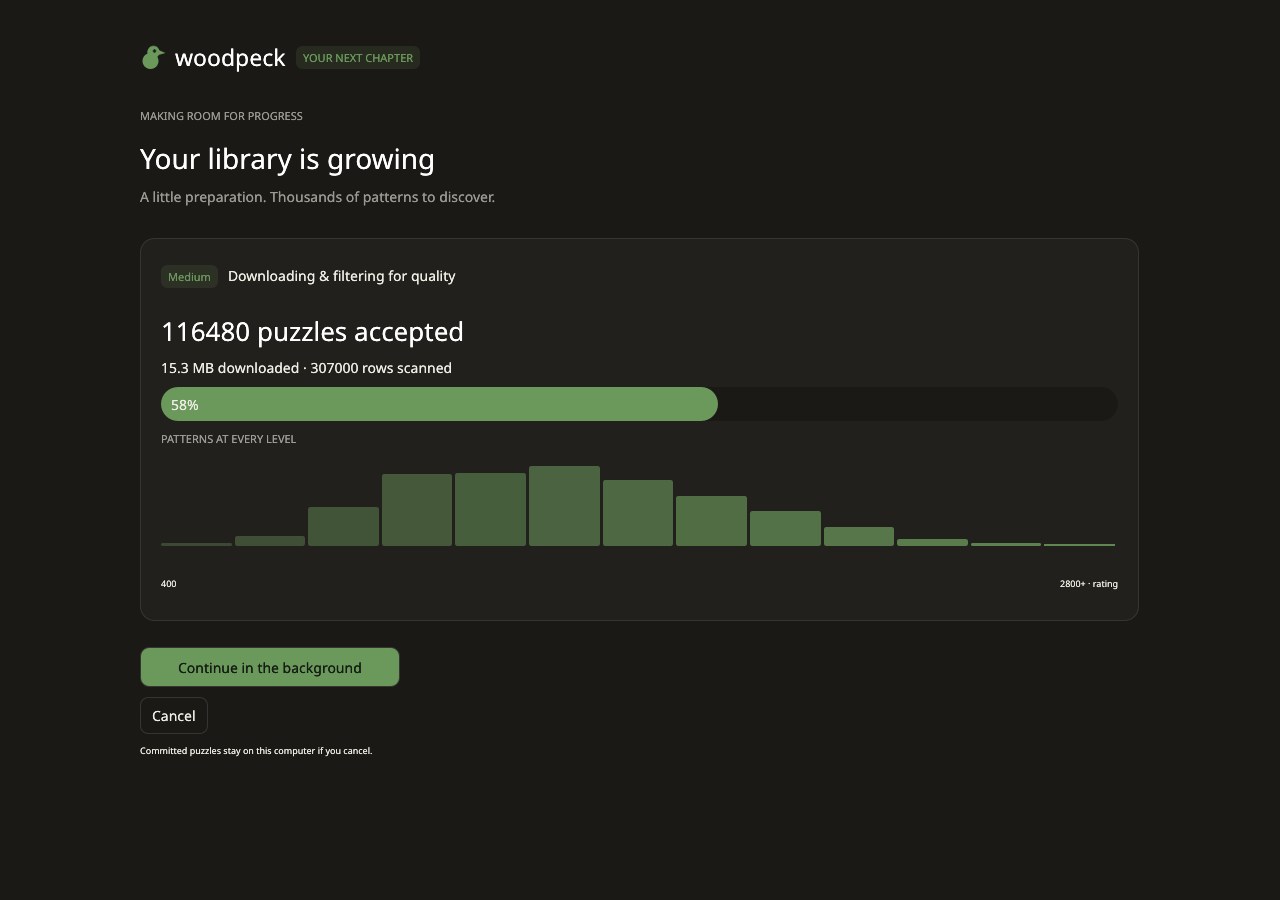
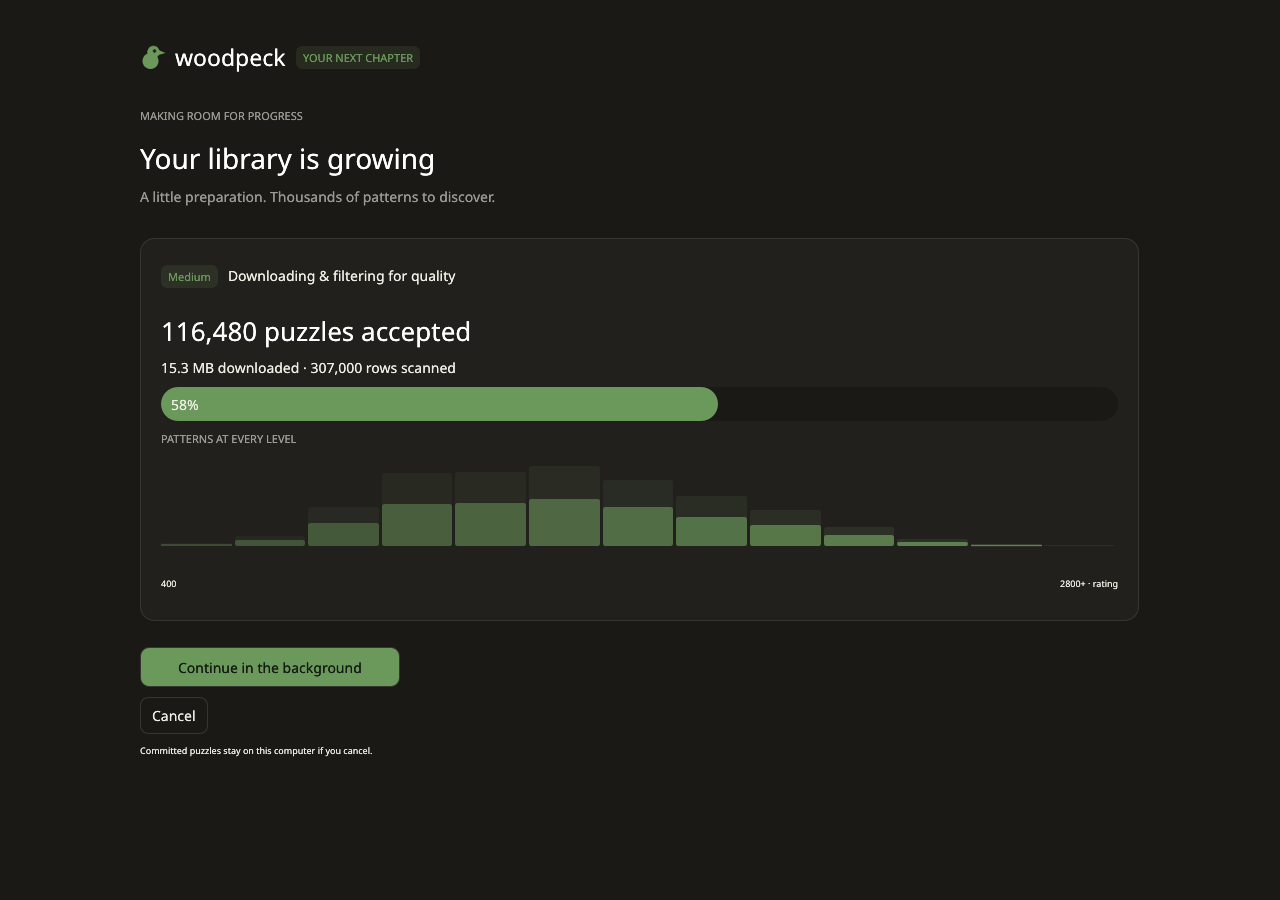
feat(ui): fill the live rating chart toward the expected library profile

diff --git a/src/app/library.rs b/src/app/library.rs
@@ -145,7 +145,7 @@ impl Woodpeck {
                     widgets::grouped_count(self.library.progress.accepted),
                     self.library.progress.bytes as f64 / 1_000_000.0
                 ));
-                histogram(ui, &self.library.bands, accent, 90.0);
+                histogram(ui, &self.library.bands, None, accent, 90.0);
                 ui.add_space(20.0);
                 if widgets::primary(ui, "Start training").clicked() {
                     self.navigate(Screen::Builder);
@@ -435,7 +435,8 @@ impl Woodpeck {
             egui::pos2(x, rect.top() + 163.0),
             egui::vec2(rect.width() - 36.0, 33.0),
         );
-        paint_histogram(painter, chart, size.histogram(), accent, 1.0);
+        let bands = size.histogram().map(|count| count as f32);
+        paint_histogram(painter, chart, &bands, accent, histogram_max(&bands));
         for (x, align, label) in [
             (rect.left() + 18.0, egui::Align2::LEFT_TOP, "400"),
             (rect.center().x, egui::Align2::CENTER_TOP, "RATING"),
@@ -464,6 +465,10 @@ impl Woodpeck {
         let accepted = animated_count(ui, ("accepted", job), progress.accepted, animated);
         let scanned = animated_count(ui, ("scanned", job), progress.scanned, animated);
         let bytes = animated_count(ui, ("bytes", job), progress.bytes, animated);
+        let bands = std::array::from_fn(|index| {
+            animated_count(ui, ("band", job, index), progress.bands[index], animated)
+        });
+        let expected = expected_histogram(self.library.selected);
         let fraction = if animated {
             ui.ctx().animate_value_with_time(
                 egui::Id::unique(("library-fraction", job)),
@@ -504,7 +509,7 @@ impl Woodpeck {
                     .show_percentage(),
             );
             widgets::caption(ui, "PATTERNS AT EVERY LEVEL");
-            histogram(ui, &progress.bands, accent, 100.0);
+            histogram(ui, &bands, Some(&expected), accent, 100.0);
         });
     }
     fn celebrate(&self, ui: &mut Ui, eased: f32) {
@@ -547,7 +552,12 @@ impl Woodpeck {
 }
 /// Restart each counter from its displayed value when another worker report arrives.
 /// Cubic easing preserves continuity even when reports arrive faster than the transition.
-fn animated_count(ui: &Ui, key: (&str, u64), target: u64, animated: bool) -> u64 {
+fn animated_count(
+    ui: &Ui,
+    key: impl std::hash::Hash + std::fmt::Debug,
+    target: u64,
+    animated: bool,
+) -> u64 {
     if !animated {
         return target;
     }
@@ -572,18 +582,40 @@ fn animated_count(ui: &Ui, key: (&str, u64), target: u64, animated: bool) -> u64
     let rounded = current.round() as u64;
     rounded
 }
-pub(super) fn histogram(ui: &mut Ui, bands: &[u64; RATING_BANDS], accent: Color32, height: f32) {
+/// Scale the measured profile to the selected import's expected accepted total.
+fn expected_histogram(size: LibrarySize) -> [f32; RATING_BANDS] {
+    let profile = size.histogram();
+    let total = profile.iter().sum::<u64>();
+    let expected = size.limit().unwrap_or(total);
+    profile.map(|count| count as f32 * expected as f32 / total.max(1) as f32)
+}
+fn histogram_max(bands: &[f32; RATING_BANDS]) -> f32 {
+    bands.iter().copied().fold(1.0, f32::max)
+}
+pub(super) fn histogram(
+    ui: &mut Ui,
+    bands: &[u64; RATING_BANDS],
+    expected: Option<&[f32; RATING_BANDS]>,
+    accent: Color32,
+    height: f32,
+) {
     let (rect, _) = ui.allocate_exact_size(
         egui::vec2(ui.available_width(), height),
         egui::Sense::hover(),
     );
-    paint_histogram(
-        ui.painter(),
-        rect.shrink2(egui::vec2(0.0, 10.0)),
-        bands,
-        accent,
-        1.0,
-    );
+    let rect = rect.shrink2(egui::vec2(0.0, 10.0));
+    let bands = bands.map(|count| count as f32);
+    let max = histogram_max(expected.unwrap_or(&bands));
+    if let Some(expected) = expected {
+        paint_histogram(
+            ui.painter(),
+            rect,
+            expected,
+            accent.gamma_multiply(0.18),
+            max,
+        );
+    }
+    paint_histogram(ui.painter(), rect, &bands, accent, max);
     ui.horizontal(|ui| {
         ui.small("400");
         ui.with_layout(egui::Layout::right_to_left(egui::Align::Center), |ui| {
@@ -594,14 +626,16 @@ pub(super) fn histogram(ui: &mut Ui, bands: &[u64; RATING_BANDS], accent: Color3
 fn paint_histogram(
     p: &egui::Painter,
     rect: egui::Rect,
-    bands: &[u64; RATING_BANDS],
+    bands: &[f32; RATING_BANDS],
     accent: Color32,
-    fill: f32,
+    max: f32,
 ) {
-    let max = (*bands.iter().max().unwrap_or(&1)).max(1) as f32;
     let width = rect.width() / RATING_BANDS as f32;
     for (index, count) in bands.iter().enumerate() {
-        let height = (*count as f32 / max * rect.height() * fill).max(2.0);
+        if *count <= 0.0 {
+            continue;
+        }
+        let height = (count / max).min(1.0) * rect.height();
         let bar = egui::Rect::from_min_max(
             egui::pos2(rect.left() + index as f32 * width, rect.bottom() - height),
             egui::pos2(
@@ -610,5 +644,73 @@ fn paint_histogram(
             ),
         );
         p.rect_filled(bar, 2, accent.gamma_multiply(0.35 + index as f32 / 24.0));
+    }
+}
+
+#[cfg(test)]
+mod tests {
+    use super::*;
+
+    fn chart_bars(
+        bands: &[u64; RATING_BANDS],
+        expected: Option<&[f32; RATING_BANDS]>,
+    ) -> Vec<egui::epaint::RectShape> {
+        let ctx = egui::Context::default();
+        let output = ctx.run_ui(egui::RawInput::default(), |ui| {
+            histogram(ui, bands, expected, Color32::WHITE, 100.0);
+        });
+        let bars = output
+            .shapes
+            .iter()
+            .filter_map(|shape| match &shape.shape {
+                egui::Shape::Rect(bar) => Some(bar.clone()),
+                _ => None,
+            })
+            .collect();
+        output.drop_without_applying_deltas();
+        bars
+    }
+
+    #[test]
+    fn live_chart_grows_toward_fixed_ghosts_while_committed_chart_fits_its_data() {
+        for size in [LibrarySize::Medium, LibrarySize::Full] {
+            let expected = expected_histogram(size);
+            let total = size.histogram().iter().sum::<u64>();
+            let expected_total = size.limit().unwrap_or(total);
+            assert!((expected.iter().sum::<f32>() - expected_total as f32).abs() < 1.0);
+            let early = size
+                .histogram()
+                .map(|count| count * (expected_total * 7 / 100) / total);
+            let late = size
+                .histogram()
+                .map(|count| count * (expected_total * 98 / 100) / total);
+            let early_bars = chart_bars(&early, Some(&expected));
+            let late_bars = chart_bars(&late, Some(&expected));
+            assert_eq!(early_bars.len(), 2 * RATING_BANDS);
+            assert_eq!(late_bars.len(), 2 * RATING_BANDS);
+            for index in 0..RATING_BANDS {
+                let ghost = &early_bars[index];
+                let early = &early_bars[index + RATING_BANDS];
+                let late = &late_bars[index + RATING_BANDS];
+                assert_eq!(ghost.rect, late_bars[index].rect);
+                assert!(ghost.fill.a() < early.fill.a());
+                assert!(early.rect.height() < late.rect.height());
+                assert!(late.rect.height() < ghost.rect.height());
+                assert!((early.rect.bottom() - ghost.rect.bottom()).abs() < 0.001);
+            }
+            for bands in [early, late] {
+                let committed = chart_bars(&bands, None);
+                assert_eq!(committed.len(), RATING_BANDS);
+                let tallest = committed
+                    .iter()
+                    .map(|bar| bar.rect.height())
+                    .fold(0.0, f32::max);
+                assert!((tallest - 80.0).abs() < 0.001);
+            }
+            assert_eq!(
+                chart_bars(&[0; RATING_BANDS], Some(&expected)).len(),
+                RATING_BANDS
+            );
+        }
     }
 }

diff --git a/src/app/demo.rs b/src/app/demo.rs
@@ -53,14 +53,17 @@ pub fn service() -> Result<AppService, Box<dyn std::error::Error>> {
 pub(super) fn welcome(app: &mut super::Woodpeck, screen: super::Screen) {
     use super::{Screen, library::WelcomeStep};
     use crate::source::{ImportProgress, LibrarySize};
+    let accepted = 116_480;
+    let profile = LibrarySize::Medium.histogram();
+    let total = profile.iter().sum::<u64>();
+    let mut bands = profile.map(|count| count * accepted / total);
+    bands[5] += accepted - bands.iter().sum::<u64>();
     let progress = ImportProgress {
         bytes: 15_340_000,
         scanned: 307_000,
-        accepted: 116_480,
+        accepted,
         rejected: 190_520,
-        bands: [
-            700, 2500, 9900, 18300, 18700, 20400, 16800, 12700, 9000, 4800, 1700, 800, 180,
-        ],
+        bands,
     };
     if matches!(
         screen,

diff --git a/src/app/screens/settings.rs b/src/app/screens/settings.rs
@@ -169,6 +169,7 @@ impl Woodpeck {
             super::super::library::histogram(
                 ui,
                 &self.library.bands,
+                None,
                 style::color(self.palette.semantic().accent),
                 65.0,
             );
